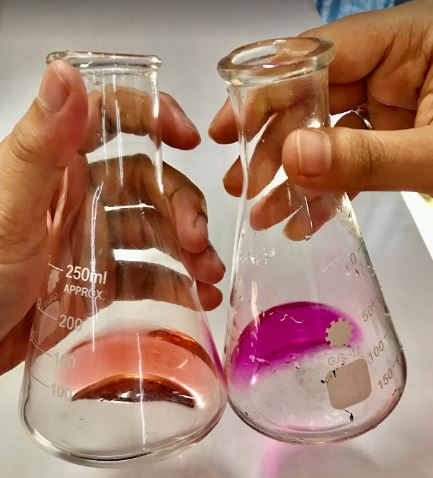
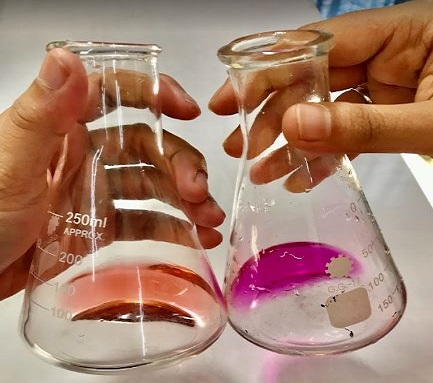
pic size adjust

diff --git a/index.html b/index.html
@@ -212,7 +212,7 @@
         <div class="row">
             <div class="col-md-3 col-sm-6">
                 <div class="portfolio-item">
-                    <img src="img/Capture1.JPG" class="img-fluid portfolio-img" alt="">
+                    <img src="img/Capture1.JPG" class="img-fluid portfolio-img" alt=""style="width: 100%; height: auto;">
                     <a href="#">DC-DC Boost Converter</a>
                     <p>05/03/2023</p>
                     <ul class="list-unstyled">
@@ -226,7 +226,7 @@
 
             <div class="col-md-3 col-sm-6">
                 <div class="portfolio-item">
-                    <img src="img/Capture2.JPG" class="img-fluid portfolio-img" alt="">
+                    <img src="img/Capture2.JPG" class="img-fluid portfolio-img" alt=""style="width: 100%; height: auto;">
                     <a href="#">Hybrid Disinfection Robot</a>
                     <p>22/01/2023</p>
                     <ul class="list-unstyled">
@@ -240,7 +240,7 @@
 
             <div class="col-md-3 col-sm-6">
                 <div class="portfolio-item">
-                    <img src="img/Capture3.JPG" class="img-fluid portfolio-img" alt="">
+                    <img src="img/Capture3.JPG" class="img-fluid portfolio-img" alt=""style="width: 100%; height: auto;">
                     <a href="#">Chemistry Laboratory</a>
                     <p>01/06/2022</p>
                     <ul class="list-unstyled">
@@ -254,7 +254,7 @@
 
             <div class="col-md-3 col-sm-6">
                 <div class="portfolio-item">
-                    <img src="img/Capture4.JPG" class="img-fluid portfolio-img" alt="">
+                    <img src="img/Capture4.JPG" class="img-fluid portfolio-img" alt=""style="width: 100%; height: auto;">
                     <a href="#">Professional Learning Certificate</a>
                     <p>28/04/2024</p>
                     <ul class="list-unstyled">

diff --git a/css/styles.css b/css/styles.css
@@ -276,7 +276,8 @@ h1.display-3 {
 }
 .portfolio-container img {
     width: 100%;
-    height: 200px; /* Set a consistent height */
+    height: auto; /* Set a consistent height */
+    max-height: 300px; /* Ensures uniform height while keeping aspect ratio */
     object-fit: cover; /* Ensures the image covers the entire area without distortion */
     border: 1px solid #ddd; /* Optional: Add a border for aesthetics */
     border-radius: 4px; /* Optional: Add rounded corners for a polished look */
